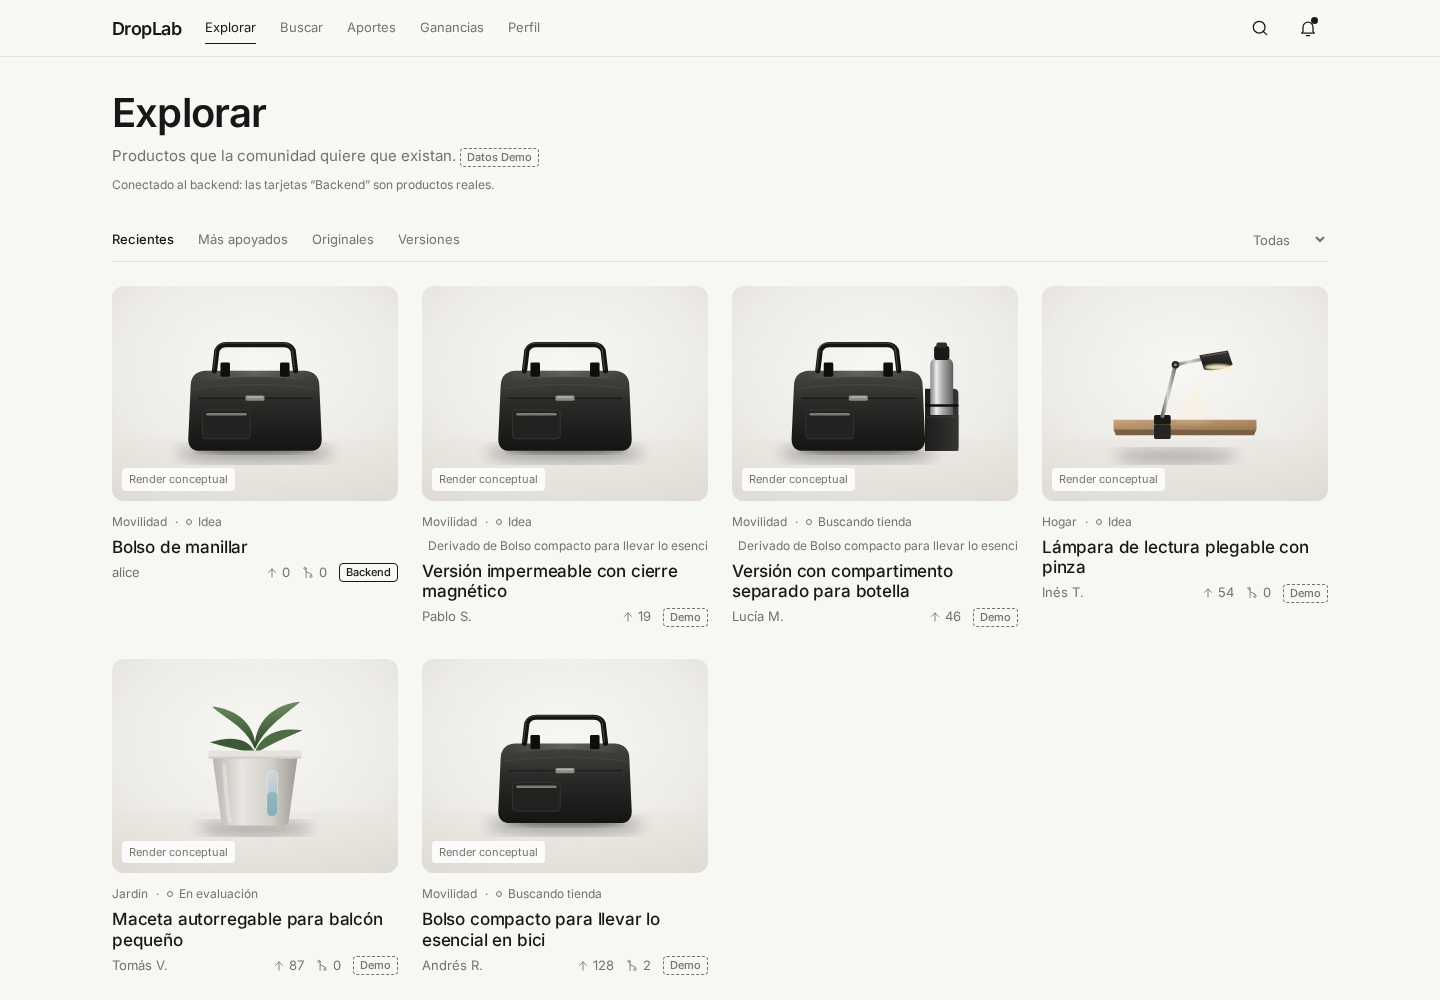
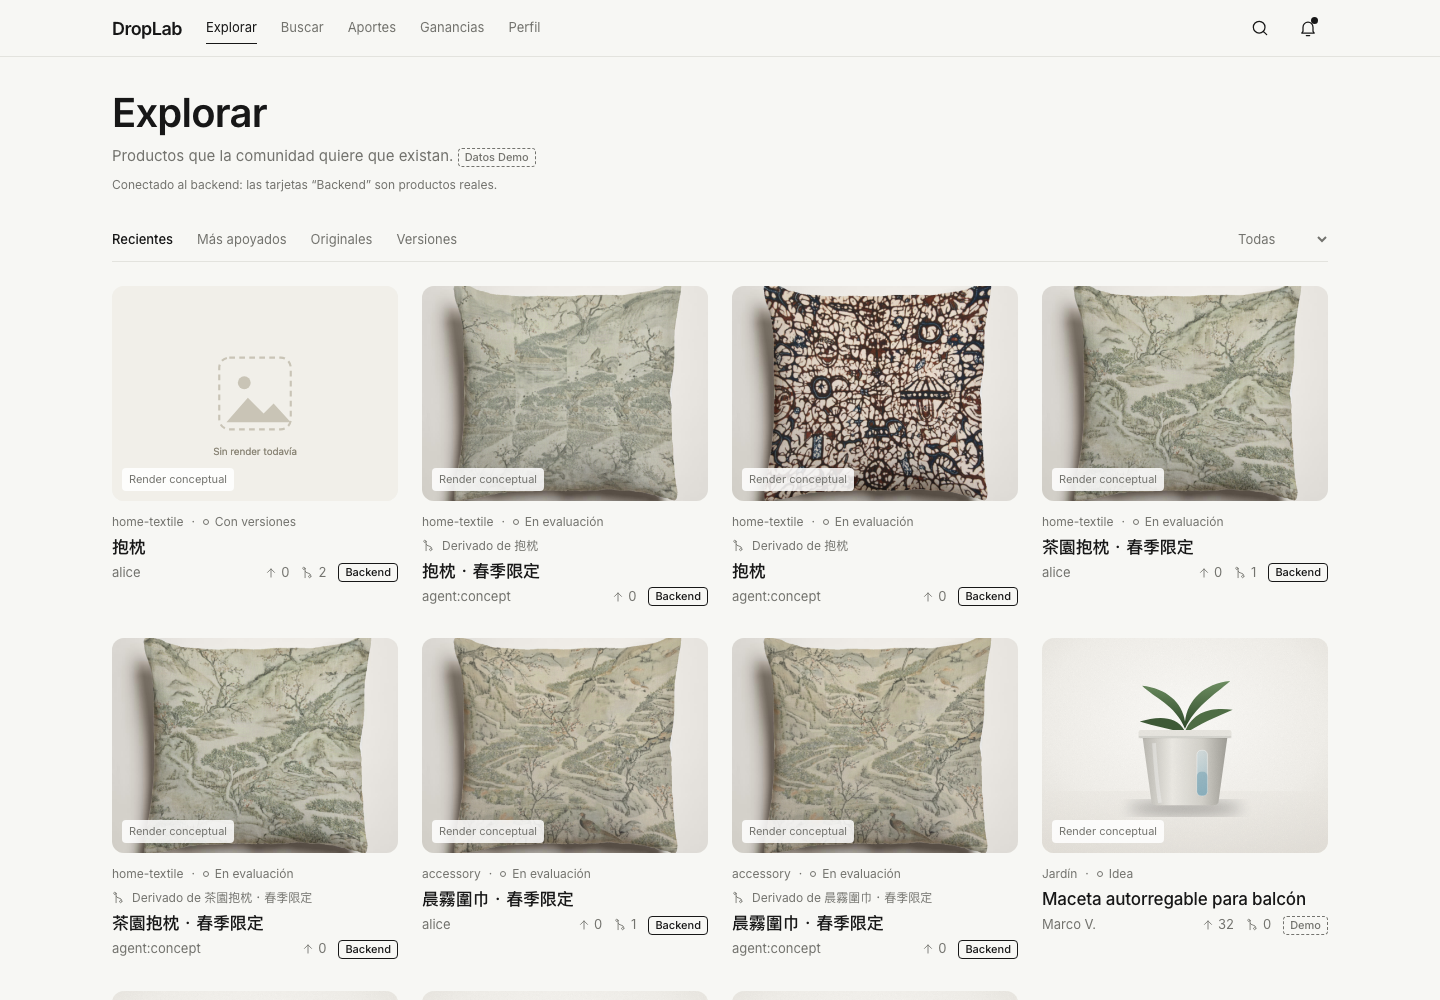
Make DropLab web build: restore web/src/data, add GET /revisions/:id, build web in serve.sh
- web/src/data/api.ts and mock.ts were missing from the PR because the root
  .gitignore 'data/' pattern also ignored web/src/data. Un-ignore it and add
  reconstructed files (api.ts maps brands/products to ideas and non-main
  branches to derived versions; mock.ts is a minimal demo dataset).
- GET /revisions/:id so the frontend can read a branch head.
- Neutral placeholder render for backend ideas without images.
- scripts/serve.sh builds web/ when sources are newer than web/dist.

Checks: backend tsc, web tsc -b + vite build, node web/scripts/smoke.mjs
(7 Backend cards, 6 real messages, 0 page errors).

diff --git a/web/src/data/mock.ts b/web/src/data/mock.ts
@@ -1,0 +1,71 @@
+// Demo data (tagged "Demo" in the UI). Reconstructed from the components' usage; replace freely.
+export type Status = 'Idea' | 'Con versiones' | 'En evaluación' | 'Lanzado';
+export interface ImageRight { label: string; owner: string; commercialOk: boolean }
+export interface Product {
+  id: string; slug: string; parentId: string | null; title: string; author: string; category: string; status: Status; image: string;
+  need: string; description: string; usage: string; change?: string; reason?: string; features: string[];
+  votes: { up: number; down: number }; followers: number; createdAt: string; imageRights: ImageRight[];
+  source?: 'demo' | 'api'; apiId?: string;
+}
+export interface Comment { id: string; productId: string; author: string; text: string; parentId: string | null; time: string; pin?: { n: number; x: number; y: number }; useful?: boolean }
+
+const render = (f: string) => `${import.meta.env.BASE_URL}renders/${f}.svg`;
+
+export const people: Record<string, { name: string }> = {
+  u_alice: { name: 'alice' }, u_bob: { name: 'bob' }, ana: { name: 'Ana R.' }, luis: { name: 'Luis M.' }, sofia: { name: 'Sofía T.' }, marco: { name: 'Marco V.' }, 'arcade.ai': { name: 'arcade.ai' },
+};
+
+export const products: Product[] = [
+  { id: 'p1', slug: 'bolso-bici', parentId: null, title: 'Bolso de bici para el trayecto diario', author: 'ana', category: 'Movilidad', status: 'Con versiones', image: render('bolso-bici'),
+    need: 'Llevar portátil y compra sin que todo se mueva al pedalear.', description: 'Bolso lateral rígido que se engancha al portaequipajes y se lleva como bandolera al bajar.', usage: 'Trayectos cortos en ciudad, a diario.',
+    features: ['Enganche rápido', 'Base rígida', 'Correa de bandolera'], votes: { up: 128, down: 6 }, followers: 41, createdAt: '2026-09-28', imageRights: [{ label: 'Render conceptual', owner: 'ana', commercialOk: true }] },
+  { id: 'p2', slug: 'bolso-botella', parentId: 'p1', title: 'Versión con compartimento separado para botella', author: 'luis', category: 'Movilidad', status: 'En evaluación', image: render('bolso-botella'),
+    need: 'Llevar portátil y compra sin que todo se mueva al pedalear.', description: 'Igual que el original, con un bolsillo lateral aislado para una botella de 750 ml.', usage: 'Trayectos cortos en ciudad, a diario.',
+    change: 'Añadir un compartimento separado para botella', reason: 'Evitar llevar una segunda bolsa en trayectos cortos',
+    features: ['Enganche rápido', 'Base rígida', 'Correa de bandolera', 'Bolsillo para botella'], votes: { up: 86, down: 3 }, followers: 27, createdAt: '2026-10-03', imageRights: [{ label: 'Imagen propia', owner: 'luis', commercialOk: false }, { label: 'Imagen heredada', owner: 'ana', commercialOk: true }] },
+  { id: 'p3', slug: 'lampara-plegable', parentId: null, title: 'Lámpara de escritorio plegable', author: 'sofia', category: 'Hogar', status: 'Idea', image: render('lampara-plegable'),
+    need: 'Una lámpara que quepa en la mochila para trabajar desde cualquier sitio.', description: 'Brazo plegable en tres tramos, base imantada, carga por USB-C.', usage: 'Coworkings, bibliotecas, viajes.',
+    features: ['Plegado plano', 'Base imantada', 'USB-C'], votes: { up: 54, down: 2 }, followers: 19, createdAt: '2026-10-06', imageRights: [{ label: 'Render conceptual', owner: 'sofia', commercialOk: true }] },
+  { id: 'p4', slug: 'maceta-autorregable', parentId: null, title: 'Maceta autorregable para balcón', author: 'marco', category: 'Jardín', status: 'Idea', image: render('maceta-autorregable'),
+    need: 'Que las plantas sobrevivan a dos semanas de vacaciones.', description: 'Depósito inferior con mecha capilar y ventana para ver el nivel de agua.', usage: 'Balcones pequeños, hierbas aromáticas.',
+    features: ['Depósito de 2 l', 'Ventana de nivel', 'Apilable'], votes: { up: 33, down: 1 }, followers: 12, createdAt: '2026-10-08', imageRights: [{ label: 'Render conceptual', owner: 'marco', commercialOk: true }] },
+];
+
+/** Products loaded from the backend; AppState fills it so byId/rootOf also resolve them. */
+export const extra: Product[] = [];
+
+export const comments: Comment[] = [
+  { id: 'c1', productId: 'p1', author: 'luis', text: 'La botella acaba mojando el portátil. Un bolsillo aparte lo arreglaría.', parentId: null, time: 'hace 3 d', pin: { n: 1, x: 0.72, y: 0.55 }, useful: true },
+  { id: 'c2', productId: 'p1', author: 'ana', text: 'Buena idea, lo valoro para la siguiente versión.', parentId: 'c1', time: 'hace 3 d' },
+  { id: 'c3', productId: 'p1', author: 'sofia', text: '¿La correa se puede guardar dentro cuando va en la bici?', parentId: null, time: 'hace 1 d', pin: { n: 2, x: 0.3, y: 0.25 } },
+  { id: 'c4', productId: 'p2', author: 'marco', text: 'El bolsillo debería ser térmico.', parentId: null, time: 'hace 5 h' },
+];
+
+export const byId = (id?: string | null) => (id ? [...products, ...extra].find(p => p.id === id) : undefined);
+export const rootOf = (p: Product): Product => { let cur = p; for (let i = 0; i < 20; i++) { const parent = byId(cur.parentId); if (!parent) break; cur = parent; } return cur; };
+export const urlOf = (p: Product) => { const root = rootOf(p); return root.id === p.id ? `/i/${root.slug}` : `/i/${root.slug}/v/${p.slug}`; };
+
+export const topics = ['bici', 'balcón', 'escritorio', 'viaje', 'cocina', 'mascotas'];
+
+export const notifications: { id: string; kind: 'launch' | 'comment' | 'proposal' | 'vote'; title: string; detail: string; to: string; unread: boolean }[] = [
+  { id: 'n1', kind: 'proposal', title: 'Ruta Urbana hizo una propuesta comercial', detail: 'Versión con compartimento para botella · pendiente de aprobación', to: '/ganancias', unread: true },
+  { id: 'n2', kind: 'comment', title: 'Nuevo comentario con pin en tu idea', detail: 'Sofía T. preguntó por la correa', to: '/i/bolso-bici?pin=2', unread: true },
+  { id: 'n3', kind: 'vote', title: 'Tu versión superó 80 votos', detail: 'Versión con compartimento separado para botella', to: '/i/bolso-bici/v/bolso-botella', unread: false },
+];
+
+export const PRIVACY_MIN = 5;
+export interface Interest { unique: number; responses: number; intent: number; price: { label: string; pct: number }[] }
+const interestData: Record<string, Interest> = {
+  p1: { unique: 212, responses: 64, intent: 58, price: [{ label: '< $25', pct: 12 }, { label: '$25–40', pct: 46 }, { label: '$40–60', pct: 31 }, { label: '> $60', pct: 11 }] },
+  p2: { unique: 140, responses: 37, intent: 63, price: [{ label: '< $25', pct: 8 }, { label: '$25–40', pct: 41 }, { label: '$40–60', pct: 38 }, { label: '> $60', pct: 13 }] },
+  p3: { unique: 71, responses: 9, intent: 44, price: [{ label: '< $25', pct: 22 }, { label: '$25–40', pct: 45 }, { label: '$40–60', pct: 22 }, { label: '> $60', pct: 11 }] },
+  p4: { unique: 40, responses: 3, intent: 0, price: [] },
+};
+/** Aggregated interest per idea. Unknown ids (e.g. backend products) get an empty aggregate instead of undefined. */
+export const interest: Record<string, Interest> = new Proxy(interestData, { get: (t, k: string) => t[k] ?? { unique: 0, responses: 0, intent: 0, price: [] } });
+
+export const proposal = {
+  merchant: 'Ruta Urbana', retail: 35, royaltyPool: 5,
+  split: [{ who: 'ana', role: 'Idea original', amount: 2.5 }, { who: 'luis', role: 'Versión', amount: 2 }, { who: 'sofia', role: 'Feedback útil', amount: 0.5 }],
+  approvals: [{ who: 'ana', state: 'Aprobado' }, { who: 'luis', state: 'Pendiente' }, { who: 'sofia', state: 'Pendiente' }] as { who: string; state: 'Aprobado' | 'Pendiente' }[],
+};

diff --git a/web/src/data/api.ts b/web/src/data/api.ts
@@ -1,0 +1,88 @@
+// Real backend adapter (Hono API in src/). Everything here is tagged "Backend" in the UI.
+// In `vite dev` requests go to /api/* and are proxied to :3456; in the built app (served at /app/) they hit the same origin.
+import type { Product } from './mock';
+
+const BASE = import.meta.env.DEV ? '/api' : '';
+const USER_KEY = 'droplab-api-user';
+
+export const getUserId = () => { try { return localStorage.getItem(USER_KEY) || 'u_alice'; } catch { return 'u_alice'; } };
+export const setUserId = (u: string) => { try { localStorage.setItem(USER_KEY, u); } catch { /* ignore */ } };
+
+async function req<T>(method: 'GET' | 'POST', path: string, body?: unknown): Promise<T> {
+  const res = await fetch(BASE + path, { method, headers: { 'content-type': 'application/json', 'x-user-id': getUserId() }, body: body === undefined ? undefined : JSON.stringify(body) });
+  const json = await res.json().catch(() => ({}));
+  if (!res.ok) throw new Error((json as { error?: { message?: string } }).error?.message ?? res.statusText);
+  return json as T;
+}
+
+// ---- backend shapes (subset) ----
+export interface ApiSpec {
+  name: string; tagline: string; concept: string; category: string; target_audience: string;
+  features: { id: string; text: string }[]; materials: { id: string; name: string }[]; colorways: { id: string; name: string; hex: string }[];
+  price_target: { currency: string; min: number | null; max: number | null };
+  images: { url: string; role: 'pattern' | 'hero' | 'closeup' }[];
+  arcade: { productId: string | null; unitPrice: { amount: string; currency: string } | null; maker: { name: string } | null; categoryName: string | null };
+}
+export interface ApiRevision { id: string; branch_id: string; author_type: 'user' | 'agent'; author_id: string; on_behalf_of_user_id: string | null; content: ApiSpec; summary: string; created_at: string }
+export interface ApiBranch { id: string; product_id: string; name: string; kind: 'main' | 'human' | 'agent'; head_revision_id: string | null; created_by_type: string; created_by_id: string; created_at: string }
+export interface ApiProposal { id: string; product_id: string; source_branch_id: string; source_revision_id: string; status: 'open' | 'merged'; opened_by_type: string; opened_by_id: string; summary: string; created_at: string }
+export interface ApiMessage { id: string; product_id: string; author_type: 'user' | 'agent'; author_id: string; body: string; agent_run_id: string | null; created_at: string }
+export interface ApiCoauthor { type: 'user' | 'agent'; id: string; on_behalf_of: string | null; revisions: number; handle: string }
+export interface ApiProductView { id: string; brand_id: string; name: string; main_branch_id: string; created_at: string; main_head: ApiRevision | null; branches: ApiBranch[]; open_proposals: ApiProposal[]; messages: ApiMessage[] }
+export interface ApiBrand { id: string; name: string; slug: string; identity: { mission: string; voice: string; palette: string[] }; created_by: string; products: { id: string; name: string }[] }
+export interface ApiAgentRun { id: string; status: 'running' | 'succeeded' | 'failed'; stage: string; error: string | null; output_proposal_id: string | null }
+
+export const api = {
+  brands: () => req<ApiBrand[]>('GET', '/brands'),
+  product: (id: string) => req<ApiProductView>('GET', `/products/${id}`),
+  revision: (id: string) => req<ApiRevision>('GET', `/revisions/${id}`),
+  messages: (id: string) => req<ApiMessage[]>('GET', `/products/${id}/messages`),
+  postMessage: (id: string, body: string) => req<{ message: ApiMessage; agent_run_id: string | null }>('POST', `/products/${id}/messages`, { body }),
+  agentRun: async (id: string) => { const r = await req<ApiAgentRun>('GET', `/agent-runs/${id}`); return { id: r.id, stage: r.stage, status: r.status, error: r.error }; },
+  coauthors: (id: string) => req<ApiCoauthor[]>('GET', `/products/${id}/coauthors`),
+  proposal: (id: string) => req<ApiProposal & { source: ApiRevision; main: ApiRevision | null; diff: { path: string; kind: 'added' | 'changed' | 'removed'; before?: unknown; after?: unknown }[] }>('GET', `/proposals/${id}`),
+  merge: (id: string) => req<{ proposal: ApiProposal; coauthors: ApiCoauthor[] }>('POST', `/proposals/${id}/merge`),
+  createRelease: (id: string) => req<{ id: string; version: string; export_payload: unknown }>('POST', `/products/${id}/releases`),
+  openStore: (relId: string) => req<{ checkout_url: string; product: { title: string; unitPrice: { amount: string; currency: string } } }>('POST', `/releases/${relId}/open-store`),
+};
+
+const FALLBACK_RENDER = `${import.meta.env.BASE_URL}renders/placeholder.svg`;
+const pick = (spec: ApiSpec | undefined) => spec?.images.find(i => i.role === 'hero')?.url ?? spec?.images.find(i => i.role === 'pattern')?.url ?? FALLBACK_RENDER;
+const statusOf = (spec: ApiSpec | undefined, versions: number): Product['status'] => spec?.arcade?.productId ? 'En evaluación' : versions > 0 ? 'Con versiones' : 'Idea';
+
+function toProduct(view: ApiProductView, spec: ApiSpec | undefined, opts: { id: string; slug: string; parentId: string | null; author: string; createdAt: string; apiId: string; title?: string; change?: string; reason?: string; versions?: number }): Product {
+  return {
+    id: opts.id, slug: opts.slug, parentId: opts.parentId, title: opts.title ?? spec?.name ?? view.name, author: opts.author,
+    category: spec?.category || 'Backend', status: statusOf(spec, opts.versions ?? 0), image: pick(spec),
+    need: spec?.target_audience ?? '', description: spec?.concept ?? '', usage: spec?.tagline ?? '',
+    change: opts.change, reason: opts.reason,
+    features: spec?.features.map(f => f.text) ?? [], votes: { up: 0, down: 0 }, followers: 0, createdAt: opts.createdAt.slice(0, 10),
+    imageRights: spec?.images.length ? [{ label: 'Render arcade.ai', owner: 'arcade.ai', commercialOk: true }] : [],
+    source: 'api', apiId: opts.apiId,
+  };
+}
+
+/** Brands/products become ideas; non-main branches with a head become derived versions. */
+export async function loadApiProducts(): Promise<{ products: Product[]; views: Record<string, ApiProductView> }> {
+  const brands = await api.brands();
+  const products: Product[] = []; const views: Record<string, ApiProductView> = {};
+  for (const b of brands) {
+    for (const p of b.products) {
+      const view = await api.product(p.id); views[p.id] = view;
+      const spec = view.main_head?.content;
+      const branches = view.branches.filter(x => x.kind !== 'main' && x.head_revision_id);
+      const rootId = `api-${p.id}`;
+      products.push(toProduct(view, spec, { id: rootId, slug: rootId, parentId: null, author: b.created_by, createdAt: view.created_at, apiId: p.id, versions: branches.length }));
+      for (const br of branches) {
+        const head = await api.revision(br.head_revision_id!).catch(() => null);
+        const vid = `api-${br.id}`;
+        products.push(toProduct(view, head?.content ?? spec, {
+          id: vid, slug: vid, parentId: rootId, apiId: p.id,
+          author: head?.author_type === 'agent' ? `agent:${head.author_id}` : (head?.author_id ?? br.created_by_id),
+          createdAt: br.created_at, title: head?.content.name, change: head?.summary, reason: head?.on_behalf_of_user_id ? `pedido por ${head.on_behalf_of_user_id.replace(/^u_/, '')}` : undefined,
+        }));
+      }
+    }
+  }
+  return { products, views };
+}

diff --git a/src/index.ts b/src/index.ts
@@ -85,6 +85,10 @@ app.get("/products/:id", (c) => {
   const v = productView(c.req.param("id"));
   return v ? c.json(v) : notFound(c, "product");
 });
+app.get("/revisions/:id", (c) => {
+  const r = getRevision(c.req.param("id"));
+  return r ? c.json(r) : notFound(c, "revision");
+});
 app.get("/products/:id/revisions", (c) => {
   if (!getProduct(c.req.param("id"))) return notFound(c, "product");
   return c.json(mainHistory(c.req.param("id")).map((r) => ({ ...r, content: JSON.parse(r.content) })));
